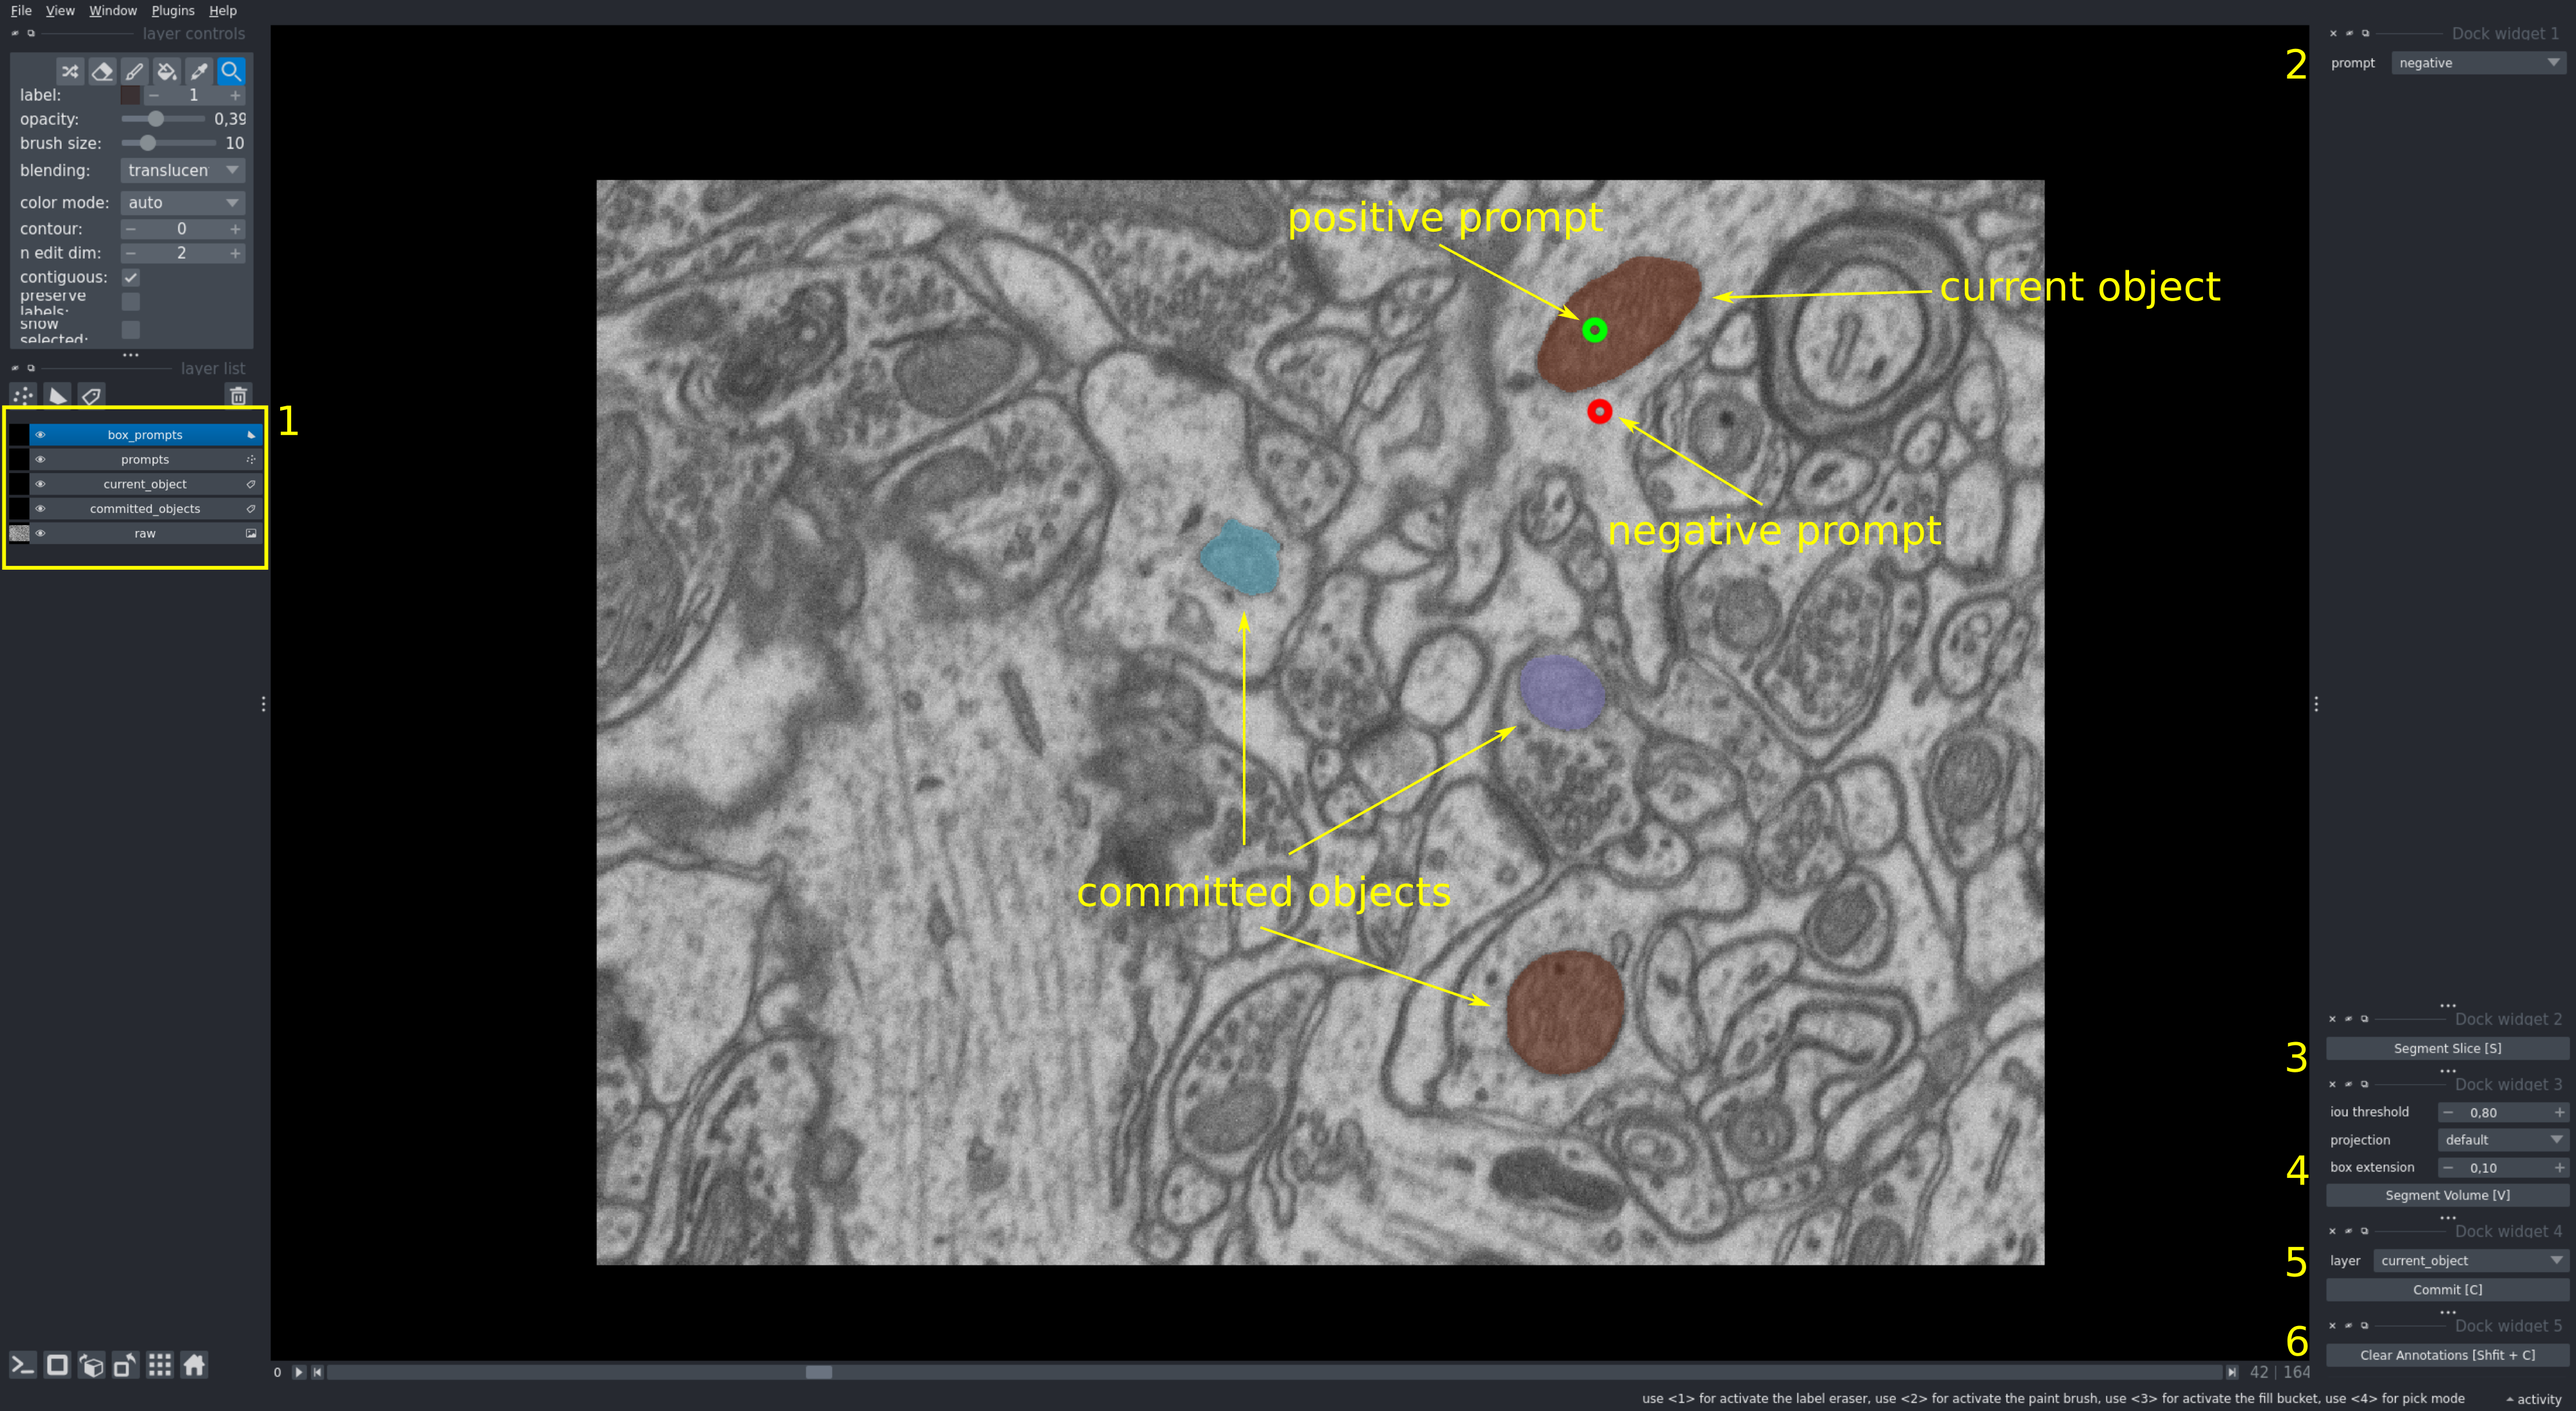
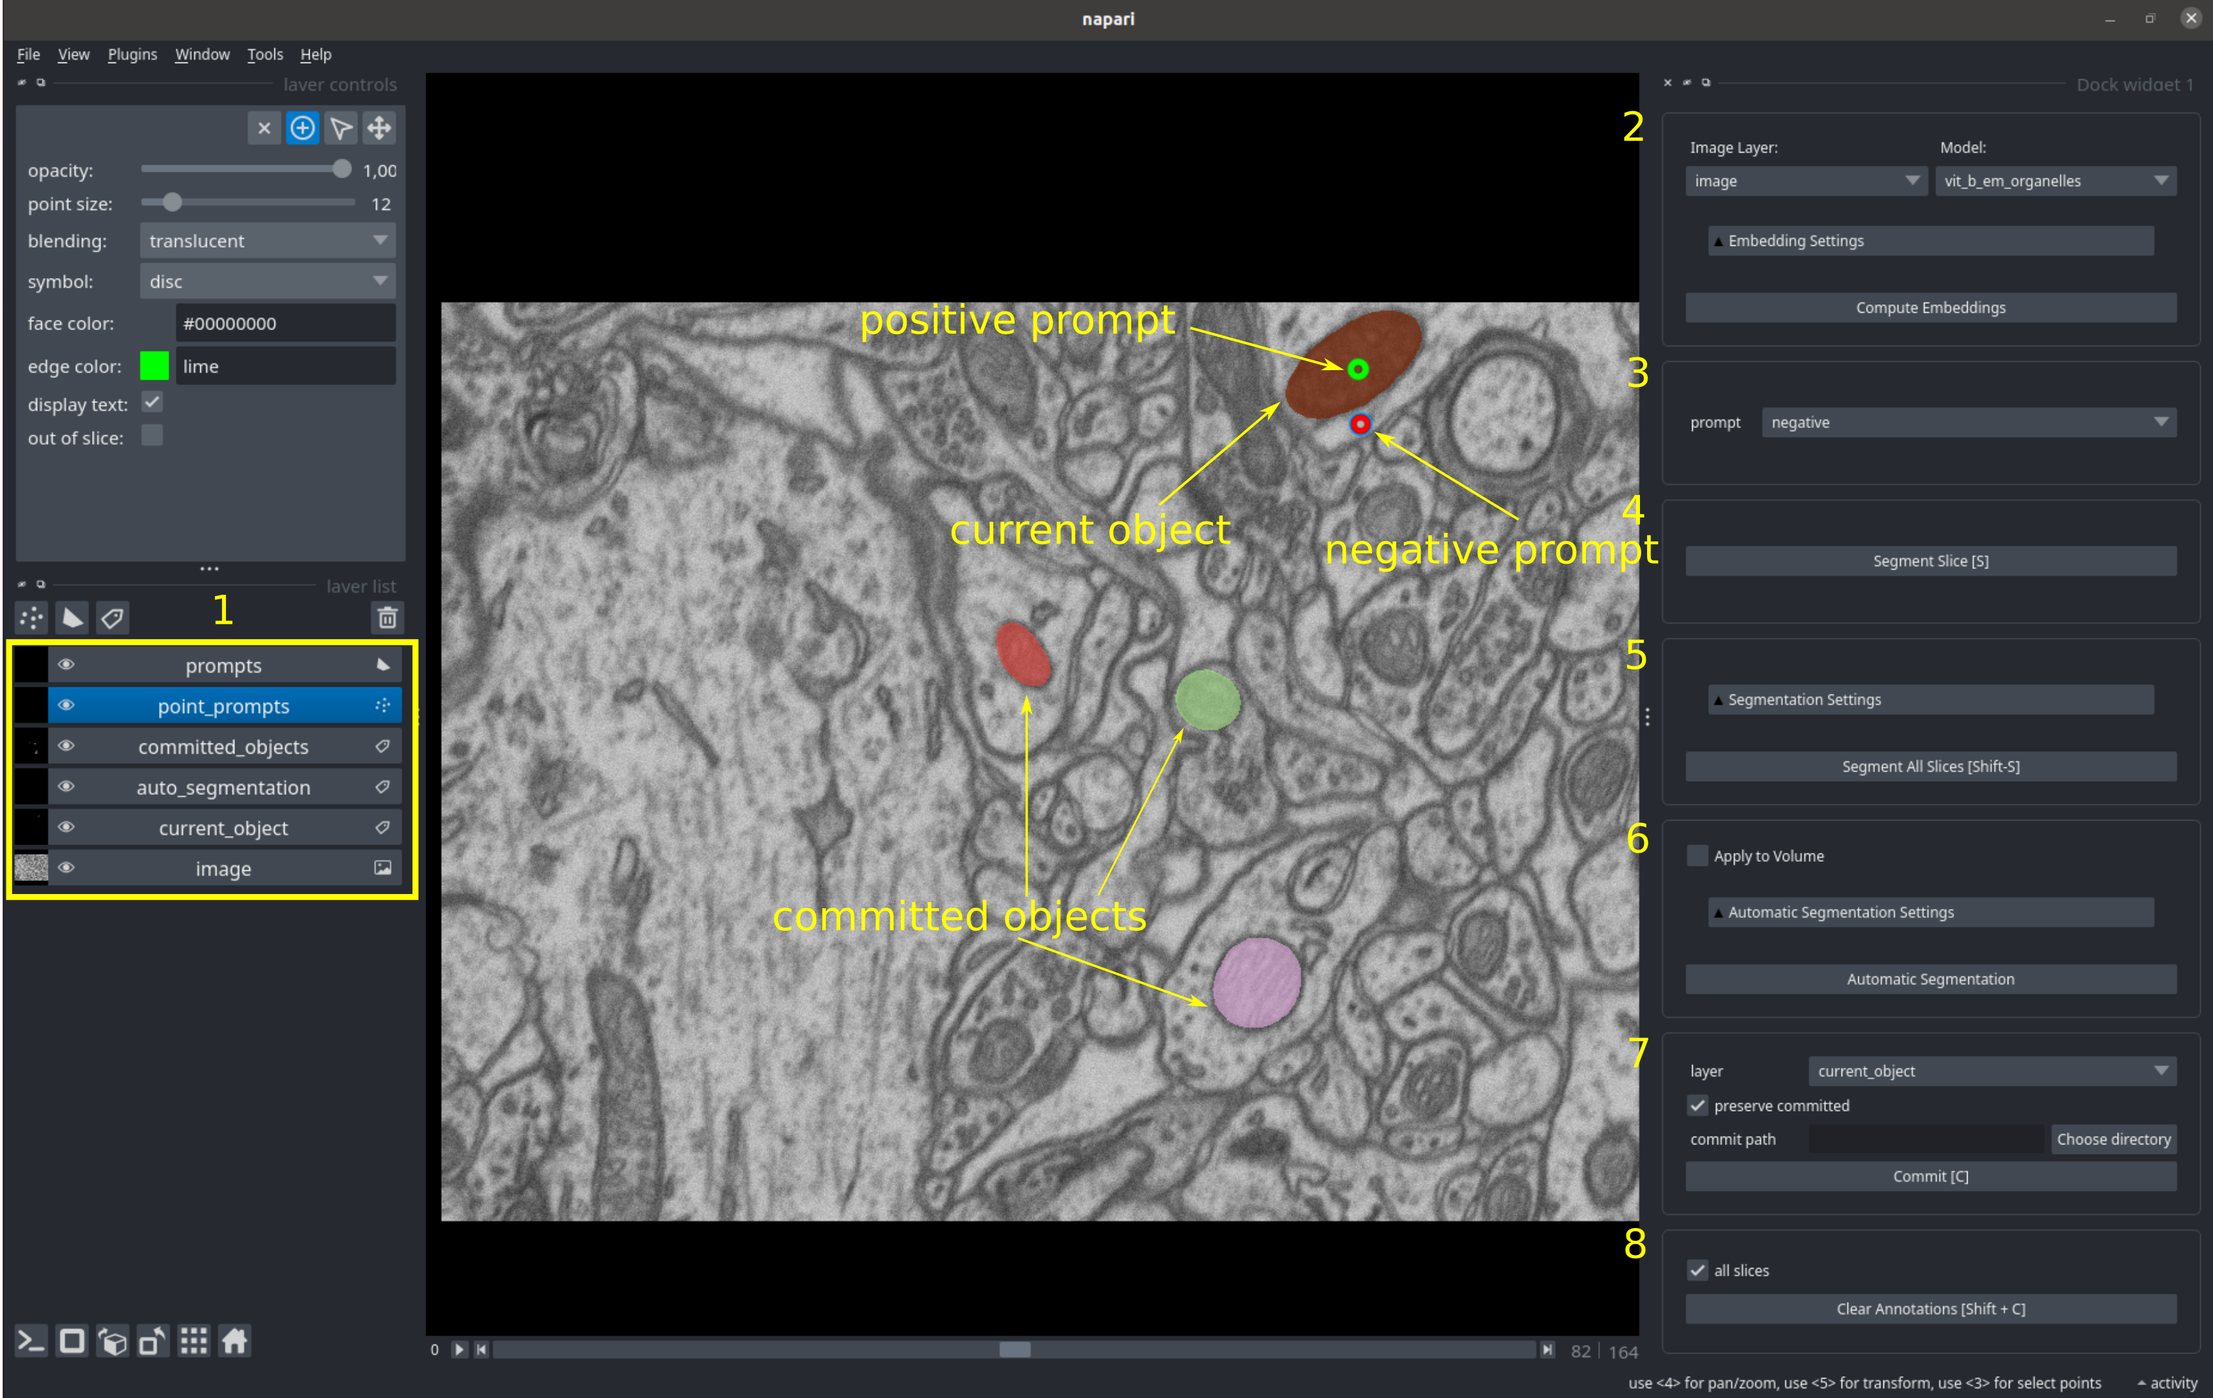
Documentation updates WIP

diff --git a/micro_sam/sam_annotator/image_series_annotator.py b/micro_sam/sam_annotator/image_series_annotator.py
@@ -367,7 +367,7 @@ class ImageSeriesAnnotator(widgets._WidgetBase):
         )
         setting_values.layout().addLayout(layout)
 
-        settings = widgets._make_collapsible(setting_values, title="Embedding Settings")
+        settings = widgets._make_collapsible(setting_values, title="Advanced Settings")
         return settings
 
     def _validate_inputs(self):

diff --git a/micro_sam/sam_annotator/training_ui.py b/micro_sam/sam_annotator/training_ui.py
@@ -159,7 +159,7 @@ class TrainingWidget(widgets._WidgetBase):
         )
         setting_values.layout().addLayout(layout)
 
-        settings = widgets._make_collapsible(setting_values, title="Advanced")
+        settings = widgets._make_collapsible(setting_values, title="Advanced Settings")
         return settings
 
     def _get_loaders(self):

diff --git a/doc/annotation_tools.md b/doc/annotation_tools.md
@@ -12,22 +12,16 @@ The annotation tools can be started from the napari plugin menu, the command lin
 They are built as napari plugin and make use of existing napari functionality wherever possible. If you are not familiar with napari yet, [start here](https://napari.org/stable/tutorials/fundamentals/quick_start.html).
 The `micro_sam` tools mainly use [the point layer](https://napari.org/stable/howtos/layers/points.html), [shape layer](https://napari.org/stable/howtos/layers/shapes.html) and [label layer](https://napari.org/stable/howtos/layers/labels.html).
 
-The annotation tools are explained in detail below. In addition to the documentation here we also provide [video tutorials](TODO).
+The annotation tools are explained in detail below. We also provide [video tutorials](TODO).
 
+The annotation tools can be started from the napari plugin menu:
+<img src="https://raw.githubusercontent.com/computational-cell-analytics/micro-sam/master/doc/images/napari-plugin.png">
 
-## Starting via napari plugin menu
-
-The annotation tools can be started from a central GUI, which can be started with the command `$ micro_sam.annotator` or using the executable [from an installer](#from-installer).
-
-In the GUI you can select with of the four annotation tools you want to use:
-<img src="https://raw.githubusercontent.com/computational-cell-analytics/micro-sam/master/doc/images/micro-sam-gui.png">
-
-And after selecting them a new window will open where you can select the input file path and other optional parameter. Then click the top button to start the tool. **Note: If you are not starting the annotation tool with a path to pre-computed embeddings then it can take several minutes to open napari after pressing the button because the embeddings are being computed.**
 
 ## Annotator 2D
 
 The 2d annotator can be started by
-- clicking `2d annotator` in the `micro_sam` GUI.
+- clicking `Annotator 2d` in the plugin menu.
 - running `$ micro_sam.annotator_2d` in the command line. Run `micro_sam.annotator_2d -h` for details.
 - calling `micro_sam.sam_annotator.annotator_2d` in a python script. Check out [examples/annotator_2d.py](https://github.com/computational-cell-analytics/micro-sam/blob/master/examples/annotator_2d.py) for details. 
 
@@ -51,14 +45,13 @@ It contains the following elements:
 
 Note that point prompts and box prompts can be combined. When you're using point prompts you can only segment one object at a time. With box prompts you can segment several objects at once.
 
-Check out [this video](https://youtu.be/ket7bDUP9tI) for a tutorial for the 2d annotation tool.
+Check out [this video](TODO) for a tutorial for the 2d annotation tool.
 
-We also provide the `image series annotator`, which can be used for running the 2d annotator for several images in a folder. You can start by clicking `Image series annotator` in the GUI, running `micro_sam.image_series_annotator` in the command line or from a [python script](https://github.com/computational-cell-analytics/micro-sam/blob/master/examples/image_series_annotator.py).
 
 ## Annotator 3D
 
 The 3d annotator can be started by
-- clicking `3d annotator` in the `micro_sam` GUI.
+- clicking `Annotator 3d` in the plugin menu.
 - running `$ micro_sam.annotator_3d` in the command line. Run `micro_sam.annotator_3d -h` for details.
 - calling `micro_sam.sam_annotator.annotator_3d` in a python script. Check out [examples/annotator_3d.py](https://github.com/computational-cell-analytics/micro-sam/blob/master/examples/annotator_3d.py) for details.
 
@@ -76,12 +69,13 @@ Most elements are the same as in [the 2d annotator](#annotator-2d):
 
 Note that you can only segment one object at a time with the 3d annotator.
 
-Check out [this video](https://youtu.be/PEy9-rTCdS4) for a tutorial for the 3d annotation tool.
+Check out [this video](TODO) for a tutorial for the 3d annotation tool.
+
 
 ## Annotator Tracking
 
 The tracking annotator can be started by
-- clicking `Tracking annotator` in the `micro_sam` GUI.
+- clicking `Annotator Tracking` in the plugin menu.
 - running `$ micro_sam.annotator_tracking` in the command line. Run `micro_sam.annotator_tracking -h` for details.
 - calling `micro_sam.sam_annotator.annotator_tracking` in a python script. Check out [examples/annotator_tracking.py](https://github.com/computational-cell-analytics/micro-sam/blob/master/examples/annotator_tracking.py) for details. 
 
@@ -100,7 +94,20 @@ Most elements are the same as in [the 2d annotator](#annotator-2d):
 
 Note that the tracking annotator only supports 2d image data, volumetric data is not supported.
 
-Check out [this video](https://youtu.be/Xi5pRWMO6_w) for a tutorial for how to use the tracking annotation tool.
+Check out [this video](TODO) for a tutorial for how to use the tracking annotation tool.
+
+
+## Image Series Annotator
+
+TODO
+
+We also provide the `image series annotator`, which can be used for running the 2d annotator for several images in a folder. You can start by clicking `Image series annotator` in the GUI, running `micro_sam.image_series_annotator` in the command line or from a [python script](https://github.com/computational-cell-analytics/micro-sam/blob/master/examples/image_series_annotator.py).
+
+
+## Finetuning Tool
+
+TODO
+
 
 ## Tips & Tricks
 
